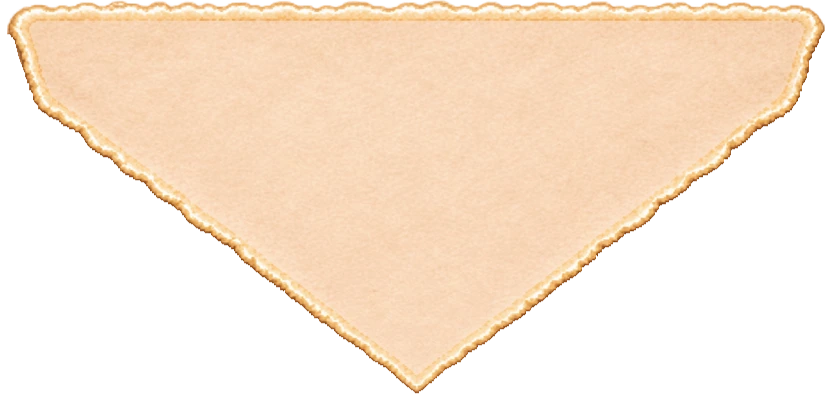
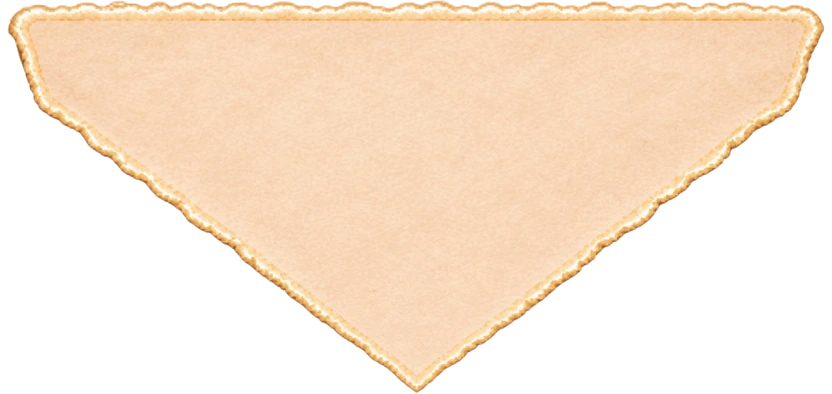
Clean sealed envelope edges and uncover the ruins entrance lectern

diff --git a/tests/reading-cases.ts b/tests/reading-cases.ts
@@ -26,6 +26,11 @@ async function verifyLongLetterStack(reader: HTMLElement) {
   const receipts: string[] = [];
   let deliver: ((entries: typeof items, unreadIds: string[]) => void) | undefined;
   const front = () => body.querySelector<HTMLButtonElement>(".mail-stack button.mail-envelope")!;
+  const liningIsVisible = () => {
+    const lining = getComputedStyle(front().querySelector(".mail-envelope-object")!, "::before");
+    return lining.display !== "none" && lining.visibility === "visible" && Number(lining.opacity) > 0 &&
+      lining.content !== "none" && lining.backgroundImage !== "none";
+  };
   const select = async (id: string) => {
     await waitForReading(() => front()?.dataset.memoryId === id, "选中的信封不正确：" + id);
   };
@@ -59,6 +64,13 @@ async function verifyLongLetterStack(reader: HTMLElement) {
     };
     const sealed = boundsOnDesk(".mail-pocket");
     if (!sealed.width || !sealed.height) throw new Error("未拆信封的袋身不可见");
+    if (liningIsVisible()) throw new Error("闭合封舌的上沿露出了内衬");
+    const deck = body.querySelector(".mail-deck")!;
+    for (const leaf of ["::before", "::after"]) {
+      const style = getComputedStyle(deck, leaf);
+      if (style.backgroundColor !== "rgba(0, 0, 0, 0)" || style.boxShadow !== "none")
+        throw new Error("底层信封的透明纸边绘制了矩形底色或阴影");
+    }
     front().click();
     await waitForReading(() => body.dataset.openLetterId === "letter-1", "未读信无法打开");
     if (receipts.join() !== "letter-1") throw new Error("读一封信改变了其他信的状态");
@@ -87,6 +99,7 @@ async function verifyLongLetterStack(reader: HTMLElement) {
     if (document.activeElement !== front() || front().dataset.sealed !== "false")
       throw new Error("放回后没有回到原来选中的已拆信封");
     const opened = boundsOnDesk(".mail-pocket");
+    if (!liningIsVisible()) throw new Error("已拆信放回后没有露出内衬");
     for (const edge of ["width", "height", "left", "bottom"] as const) {
       if (Math.abs(opened[edge] - sealed[edge]) > .5)
         throw new Error(`同一封信放回后袋身的 ${edge} 变化了：${sealed[edge]} → ${opened[edge]}`);

diff --git a/tests/ruins.test.ts b/tests/ruins.test.ts
@@ -2,7 +2,8 @@ import test from "node:test";
 import assert from "node:assert/strict";
 import { readProgress, canStand, findPath } from "../src/core.ts";
 import { readEchoMemory, playEcho, melody } from "../src/echoes.ts";
-import { crossedEchoGate, townEchoGate, ruinsExit, echoPool } from "../src/ruins-map.ts";
+import { crossedEchoGate, townEchoGate, ruinsExit, echoPool, stairLintel, southNotebook, southNotebookArt } from "../src/ruins-map.ts";
+import { clickedInteraction, nearbyInteraction } from "../src/interaction.ts";
 import { arcadesIn } from "../src/town-data.ts";
 import { scenes } from "../src/maps.ts";
 import { readJourney } from "../src/journey.ts";
@@ -31,6 +32,14 @@ test("runes accept only a complete set and the correct notes, including after re
   assert.ok(playEcho(saved,"bell")); assert.ok(playEcho(saved,"star")); assert.equal(playEcho(saved,"star"),false);
   saved.listened=true;
   assert.deepEqual(readEchoMemory(saved),{found:[...melody],played:3,listened:true});
+});
+test("the south landing book stays clear of the ivy arch and can be read from the entrance aisle",()=>{
+  const map = scenes.ruins, art = southNotebookArt;
+  assert.ok(art.y + art.h < Math.min(...stairLintel.map(p => p.y)), "the arch must not cover the book or its stand");
+  assert.equal(clickedInteraction({x:art.x + art.w/2, y:art.y + art.h/3}, map.spots)?.id, southNotebook.id);
+  assert.equal(nearbyInteraction(southNotebook.approach, map.spots)?.id, southNotebook.id);
+  assert.ok(!canStand(southNotebook,map.walls,map.bounds,map.floor,map.surfaces));
+  assert.deepEqual(findPath(ruinsExit.approach,southNotebook.approach,map)?.at(-1),southNotebook.approach);
 });
 test("walk through each gate outwards only, with both landings safe",()=>{
   const town=townEchoGate, exit=ruinsExit;

diff --git a/src/mail-stack.css b/src/mail-stack.css
@@ -32,15 +32,13 @@
   left: 1%;
   bottom: 0;
   pointer-events: none;
-  border-radius: 2%;
-  background: url("./assets/stationery-ivory-flap.webp") top center / 100% 70% no-repeat,
-    url("./assets/stationery-lily-pocket.webp") center / 100% 100% no-repeat,
-    #dfc4ad;
-  box-shadow: 0 1px 1px #693c4166, 1px 4px 5px #452d2766;
+  background: url("./assets/stationery-ivory-flap.webp") top center / 100% 69.69% no-repeat,
+    url("./assets/stationery-lily-pocket.webp") center / 100% 100% no-repeat;
+  filter: brightness(var(--paper-shade)) drop-shadow(1px 2px 2px #452d2766);
   transform-origin: 47% 67%;
 }
-.mail-deck::before { transform: translate(-1%, 3%) rotate(-5deg); filter: sepia(.18) brightness(.9); }
-.mail-deck::after { z-index: -2; transform: translate(2%, 1%) rotate(6deg); filter: sepia(.28) brightness(.83); }
+.mail-deck::before { transform: translate(-1%, 3%) rotate(-5deg); --paper-shade: .90; }
+.mail-deck::after { z-index: -2; transform: translate(2%, 1%) rotate(6deg); --paper-shade: .83; }
 .mail-deck[data-depth="1"]::before, .mail-deck[data-depth="1"]::after, .mail-deck[data-depth="2"]::after { display: none; }
 .mail-deck .mail-envelope, .mail-deck-leaf {
   display: block;
@@ -62,8 +60,15 @@
   -webkit-tap-highlight-color: transparent;
 }
 .mail-deck .mail-envelope:focus-visible {
-  outline: 2px dashed #874359;
-  outline-offset: 5px;
+  outline: none;
+}
+.mail-deck .mail-envelope:focus-visible .mail-sender {
+  text-decoration: underline;
+  text-decoration-thickness: 2px;
+  text-underline-offset: .18em;
+}
+@media (forced-colors: active) {
+  .mail-deck .mail-envelope:focus-visible { outline: 2px solid Highlight; outline-offset: 4px; }
 }
 .mail-deck :is(.mail-envelope, .mail-deck-leaf) > .mail-envelope-art {
   position: absolute;

diff --git a/src/mail-stationery.css b/src/mail-stationery.css
@@ -27,6 +27,9 @@
   background-position: center bottom;
   background-size: 100% 169.69%;
 }
+[data-sealed="true"] .mail-envelope-object::before {
+  opacity: 0;
+}
 .mail-envelope-object .mail-paper {
   z-index: 1;
   inset: 5.5% 5.5% 4%;
@@ -96,6 +99,9 @@
 }
 .mail-flight[data-direction="open"][data-sealed="true"] .mail-seal { animation-name: mail-peel-seal; }
 .mail-flight[data-direction="open"][data-sealed="true"] .mail-flap { animation-name: mail-unfold-flap; }
+.mail-flight[data-direction="open"][data-sealed="true"] .mail-envelope-object::before {
+  animation: mail-reveal-lining var(--flight-duration) linear both;
+}
 .mail-flight[data-direction="open"][data-sealed="true"] .mail-paper { animation-name: mail-take-sealed-card; }
 .mail-flight[data-direction="open"][data-sealed="false"] .mail-flap { animation-name: mail-lift-open-flap; }
 .mail-flight[data-direction="open"][data-sealed="false"] .mail-paper { animation-name: mail-take-open-card; }
@@ -111,6 +117,11 @@
   54% { z-index: 3; transform: rotateX(-89deg); }
   55% { z-index: 0; transform: rotateX(-91deg); }
   72%, 100% { z-index: 0; transform: rotateX(-180deg); }
+}
+/* At the hinge the closed flap still covers the lining's straight cut edge. */
+@keyframes mail-reveal-lining {
+  0%, 52% { opacity: 0; }
+  56%, 100% { opacity: 1; }
 }
 @keyframes mail-take-sealed-card {
   0%, 61% { transform: none; }
@@ -133,7 +144,8 @@
   100% { transform: rotateX(-115deg); }
 }
 @media (prefers-reduced-motion: reduce) {
-  .mail-flight[data-direction] :is(.mail-seal,.mail-flap,.mail-paper) {
+  .mail-flight[data-direction] :is(.mail-seal,.mail-flap,.mail-paper),
+  .mail-flight[data-direction="open"][data-sealed="true"] .mail-envelope-object::before {
     animation: none;
   }
 }

diff --git a/src/ruins-map.ts b/src/ruins-map.ts
@@ -65,10 +65,13 @@ export function crossedEchoGate(scene: string, from: Point, to: Point) {
       from.y < ruinsExit.y && to.y >= ruinsExit.y) return ruinsExit.id;
 }
 const trials = arcadesIn("ruins");
+// The left side of the landing keeps the whole book above the arch and the central aisle clear.
+const bookFoot = {x:430,y:403};
+export const southNotebookArt = {x:bookFoot.x-15,y:bookFoot.y-26,w:30,h:30};
 export const southNotebook: Hotspot = {
-  id: "star-notebook", title: "南阶 · 查阅寻环线索", x: 475, y: 477,
-  approach: {x:463,y:486}, radius: 25, selfMarked: true,
-  hitAreas: [{x:461,y:456,w:30,h:26}],
+  id: "star-notebook", title: "南阶 · 查阅寻环线索", ...bookFoot,
+  approach: {x:bookFoot.x+20,y:bookFoot.y+6}, radius: 25, selfMarked: true,
+  hitAreas: [southNotebookArt],
 };
 export const moonPlate: Hotspot = {
   id: "star-plate", title: "月相星盘", x: 330, y: 258, approach: {x:361,y:267},

diff --git a/src/astrolabe-drawing.ts b/src/astrolabe-drawing.ts
@@ -1,5 +1,5 @@
 import { lightBoard, mirrorCells, targetCell, plateAligned, rings, starLit, traceMoonlight, type AstrolabeState, type RingId } from "./astrolabe";
-import { moonPlate, southNotebook } from "./ruins-map";
+import { moonPlate, southNotebookArt } from "./ruins-map";
 import { drawRelic } from "./relic-icons";
 import { sceneArt } from "./scene-art";
 
@@ -27,7 +27,7 @@ export function drawGroundRing(c:Ctx, id:RingId, x:number, y:number, near:boolea
   c.restore();
 }
 export function drawSouthNotebook(c:Ctx) {
-  tool(c,"book",southNotebook.x-15,southNotebook.y-26,30);
+  tool(c,"book",southNotebookArt.x,southNotebookArt.y,southNotebookArt.w);
 }
 export function drawMoonPlate(c:Ctx, s:AstrolabeState) {
   const {x,y}=moonPlate, solved=plateAligned(s);
